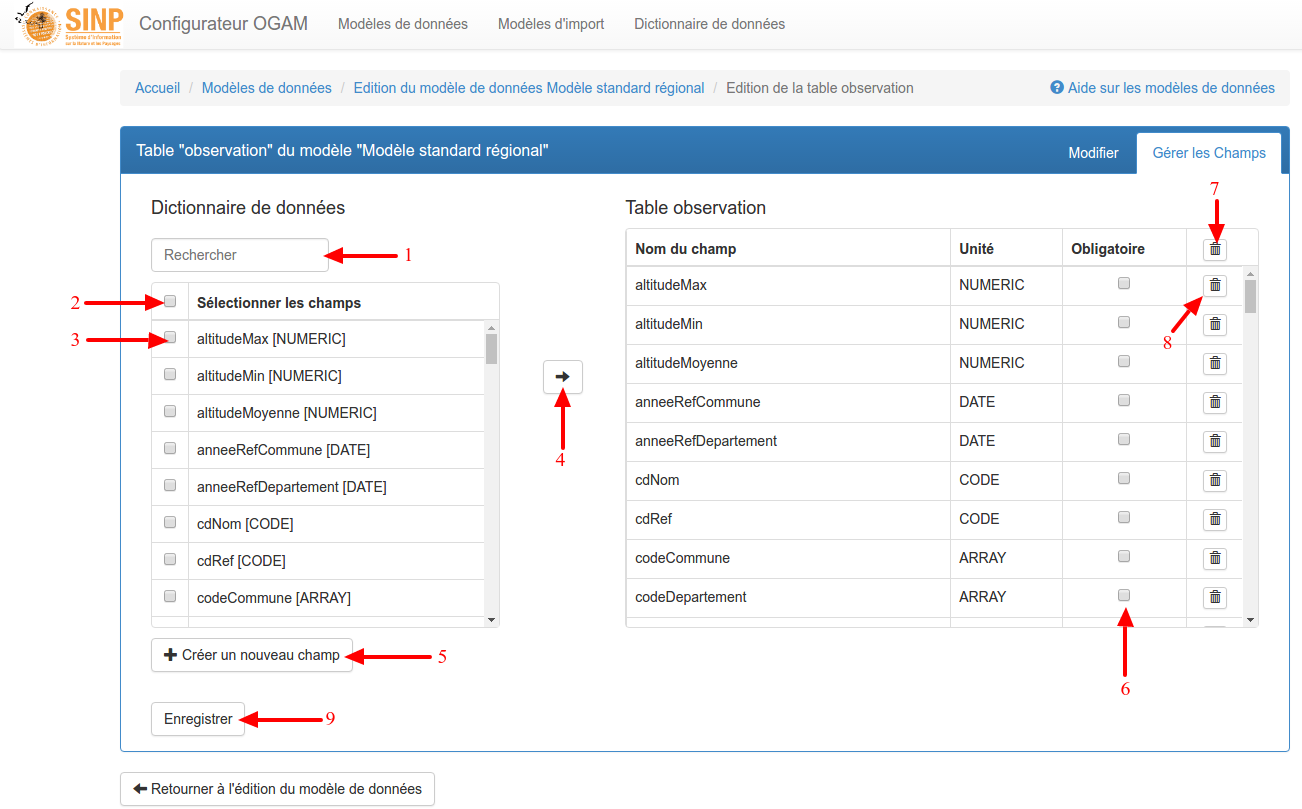
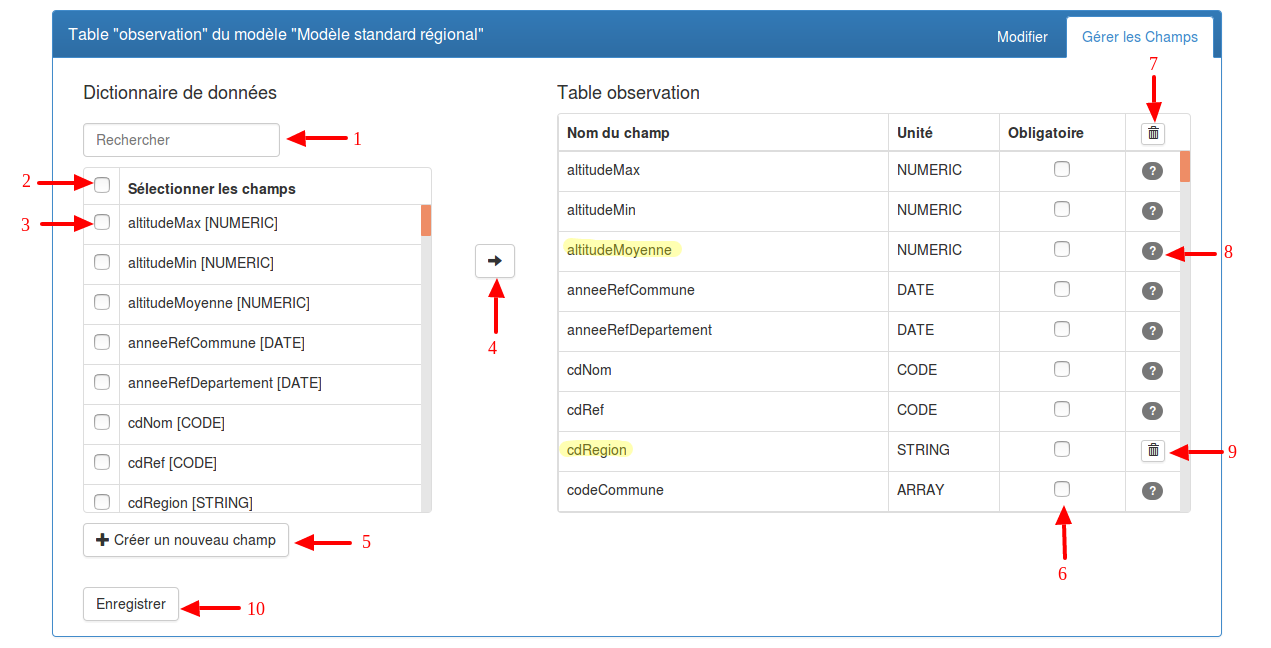
#600: Update user doc

diff --git a/documentation/user/source/configurateur/modele-de-donnees.rst b/documentation/user/source/configurateur/modele-de-donnees.rst
@@ -26,27 +26,19 @@ avec des champs régionaux utiles.
 Créer un modèle de données
 --------------------------
 
-.. image:: ../images/data-models-1.png
+.. image:: ../images/configurateur/configurateur-modele-creation.png
 
-1. Cliquer sur "Modèles de données" dans le menu du haut pour accéder à la page de gestion des modèles de données.
-2. GINCO propose un modèle de données de base : **Occ_Taxon_DSR_exemple**.
+1. Cliquer sur "Modèles de données" dans le menu du haut pour accéder à la page de gestion des modèles de données (**1**).
+2. GINCO propose un modèle de données de base : **Occ_Taxon_DSR_exemple** (**2**).
 
-.. note:: Le modèle Occ_Taxon_DSR_exemple est le modèle de base. Il n'est
-    possible ni de le supprimer, ni de le modifier.
+.. note:: Le modèle Occ_Taxon_DSR_exemple est le modèle de base. Il n'est possible ni de le supprimer, ni de le modifier.
 
 Pour créer un nouveau modèle, vous devez dupliquer le modèle DSR de base ou un
-modèle qui l'a étendu.
+modèle qui l'a étendu (**3**).
 
-.. warning :: Il est encore possible de créer un modèle à partir de rien, mais cette méthode
-  est fortement déconseillée. C'est un processus laborieux et un peu dangereux
-  parce que rien de garanti que le modèle ainsi configuré permettra l'export
-  correct en DEE et que tous les champs techniques nécessaires au bon fonctionnement
-  de la plate-forme seront présents.
+.. warning :: Il n'est plus possible de créer un modèle à partir de zéro. C'est en effet un processus laborieux et un peu dangereux car rien ne garantit que le modèle ainsi configuré permettra l'export correct en DEE et que tous les champs techniques nécessaires au bon fonctionnement de la plate-forme seront présents.
 
-3. Pour copier un modèle existant, cliquer sur l'icône "Dupliquer" correspondante.
-  Un modèle contenant les mêmes tables et champs que le modèle initial sera créé.
-  Vous ne devez pas modifier ou supprimer des champs provenant du modèle DSR
-  de base.
+3. Pour copier un modèle existant, cliquer sur l'icône "Dupliquer" correspondante. Un modèle contenant les mêmes tables et champs que le modèle initial sera créé. Vous ne devez pas modifier ou supprimer des champs provenant du modèle DSR de base.
 
 Vous pourrez alors indiquer le nom de votre nouveau modèle ainsi qu'une description
 (facultative) :
@@ -55,7 +47,7 @@ Vous pourrez alors indiquer le nom de votre nouveau modèle ainsi qu'une descrip
 
 Votre nouveau modèle est visible sur la page de gestion des modèles de données (1) :
 
-.. image:: ../images/data-models-2.png
+.. image:: ../images/configurateur/configurateur-modele-duplique.png
 
 2. Le nouveau modèle n'est pas publié sur la plateforme,
     comme l'indique le bouton "Publier" présent (flèche droite, ou bouton de lecture),
@@ -66,38 +58,38 @@ Votre nouveau modèle est visible sur la page de gestion des modèles de donnée
     sur la plateforme (voir `Publier / Dépublier un modèle de données`_).
 
 .. note:: Lorsque vous souhaitez modifier un modèle de données, un message vous
-  indiquera que les éventuels association de champs avec les fichiers d'import
-  seront perdus. Cela s'explique par le fait qu'il est très difficile de maintenir
+  indiquera que les éventuelles associations de champs avec les fichiers d'import
+  seront perdues. Cela s'explique par le fait qu'il est très difficile de maintenir
   la cohérence sur ces relations alors que la structure des données va être modifiée.
   Lorsque vous souhaitez modifier
   un modèle de données, les correspondances de champs entre tables et fichiers seront
-  donc perdues, **même si finalement, vous n'effectuez pas de modifications**.
+  donc perdues, **même si au final, vous n'effectuez pas de modifications**.
 
 Configurer les tables et les champs d'un modèle de données
 ----------------------------------------------------------
 
-Cliquez sur l'icône "Modifier" (**3**), sur la page de gestion des modèles de données, pour accéder à la page de
-configuration de votre modèle :
+Cliquez sur l'icône "Modifier" (**3**), sur la page de gestion des modèles de données, pour accéder à la page de configuration de votre modèle :
 
-.. image:: ../images/data-model-manage-tables.png
+.. image:: ../images/configurateur/configurateur-table-gestion.png
 
-On peut :
+On y peut :
 
-* `Créer et modifier des tables`_ (**1** et **2**)
-* `Gérer les champs des tables`_ (**3**)
-* `Supprimer des tables`_ (**4**)
+* `Modifier des tables`_ (**1**)
+* `Gérer les champs des tables`_ (**2**)
 
-Créer et modifier des tables
-^^^^^^^^^^^^^^^^^^^^^^^^^^^^
+Modifier des tables
+^^^^^^^^^^^^^^^^^^^
 
-.. image:: ../images/data-model-new-table.png
+.. image:: ../images/configurateur/configurateur-table-edition.png
 
 Les champs demandés sont :
 
-* **Nom :** Nom de la table, utilisé en base de données : les caractères autorisés sont les lettres minuscules, chiffres et _.
-* **Description :** Texte libre décrivant la table.
-* **Table parente :** Vous pouvez spécifier des relations *hiérarchiques* entre les tables du modèle, en indiquant qu'une table est *parente*
+* **Nom :** (**obligatoire**) Nom de la table, utilisé en base de données : les caractères autorisés sont les lettres minuscules, chiffres et _.
+* **Description :** (*facultatif*) Texte libre décrivant la table.
+* **Table parente :** (*facultatif*) Vous pouvez spécifier des relations *hiérarchiques* entre les tables du modèle, en indiquant qu'une table est *parente*
   d'une autre. Voir le paragraphe `Relations entre les tables`_ pour plus de détails.
+
+.. note:: Le champ 'table parente' n'a de sens que lorsque le modèle standard de données contient lui-même au moins deux tables.
 
 Gérer les champs des tables
 ^^^^^^^^^^^^^^^^^^^^^^^^^^^
@@ -123,7 +115,7 @@ Les différentes fonctionnalités de cet écran sont décrites ci-dessous.
 
 4. **Ajouter un ou plusieurs champ(s)** en cliquant sur la flèche : les champs sélectionnés seront alors ajoutés au tableau de droite.
 
-.. note:: Une fois que vous avez ajouté un ou plusieurs champ(s), il n'est plus nécessaire d'appuyer sur le bouton enregistrer (**9**).
+.. note:: Une fois que vous avez ajouté un ou plusieurs champ(s), il n'est plus nécessaire d'appuyer sur le bouton enregistrer (**10**).
 
 .. note:: Un champ ne peut être présent en doublon dans une table.
 
@@ -137,18 +129,15 @@ Les différentes fonctionnalités de cet écran sont décrites ci-dessous.
 
 7. **Supprimer tous les champs de la table** en cliquant sur la corbeille dans la ligne de titre.
 
-.. warning:: Attention, tous les champs de la table seront directement supprimés. Il n'y a pas de possibilité d'annulation.
+.. warning:: Attention, tous les champs de la table **ne dérivant pas directement ou indirectement d'un modèle standard** seront directement supprimés. Il n'y a pas de possibilité d'annulation.
 
-8. **Supprimer un champ de la table** en cliquant sur la corbeille correspondant à un champ dans la table.
+8. et 9. **Supprimer un champ de la table** en cliquant sur la corbeille correspondant à un champ dans la table.
 
 .. warning :: La suppression d'un champ est immédiate et irréversible. Pour retrouver un champ supprimé, il faut recommencer la procédure de rajout depuis le dictionnaire de données.
 
+.. note :: Seuls les champs créés et ajoutés par l'utilisateur peuvent être supprimés. Les autres champs, dérivés d'un modèle standard, ne peuvent pas l'être. Une icône explicative remplace l'icône de la corbeille dans ce cas-là.
+
 Dernière information : dans le cas des tables d'un modèle de données, l'ordre des champs n'a pas d'importance.
-
-Supprimer des tables
-^^^^^^^^^^^^^^^^^^^^
-
-Pour supprimer une table, il suffit de cliquer sur le bouton "Corbeille" (**4**) de la table que vous souhaitez supprimer. La table sera directement supprimée.
 
 Relations entre les tables
 ^^^^^^^^^^^^^^^^^^^^^^^^^^
